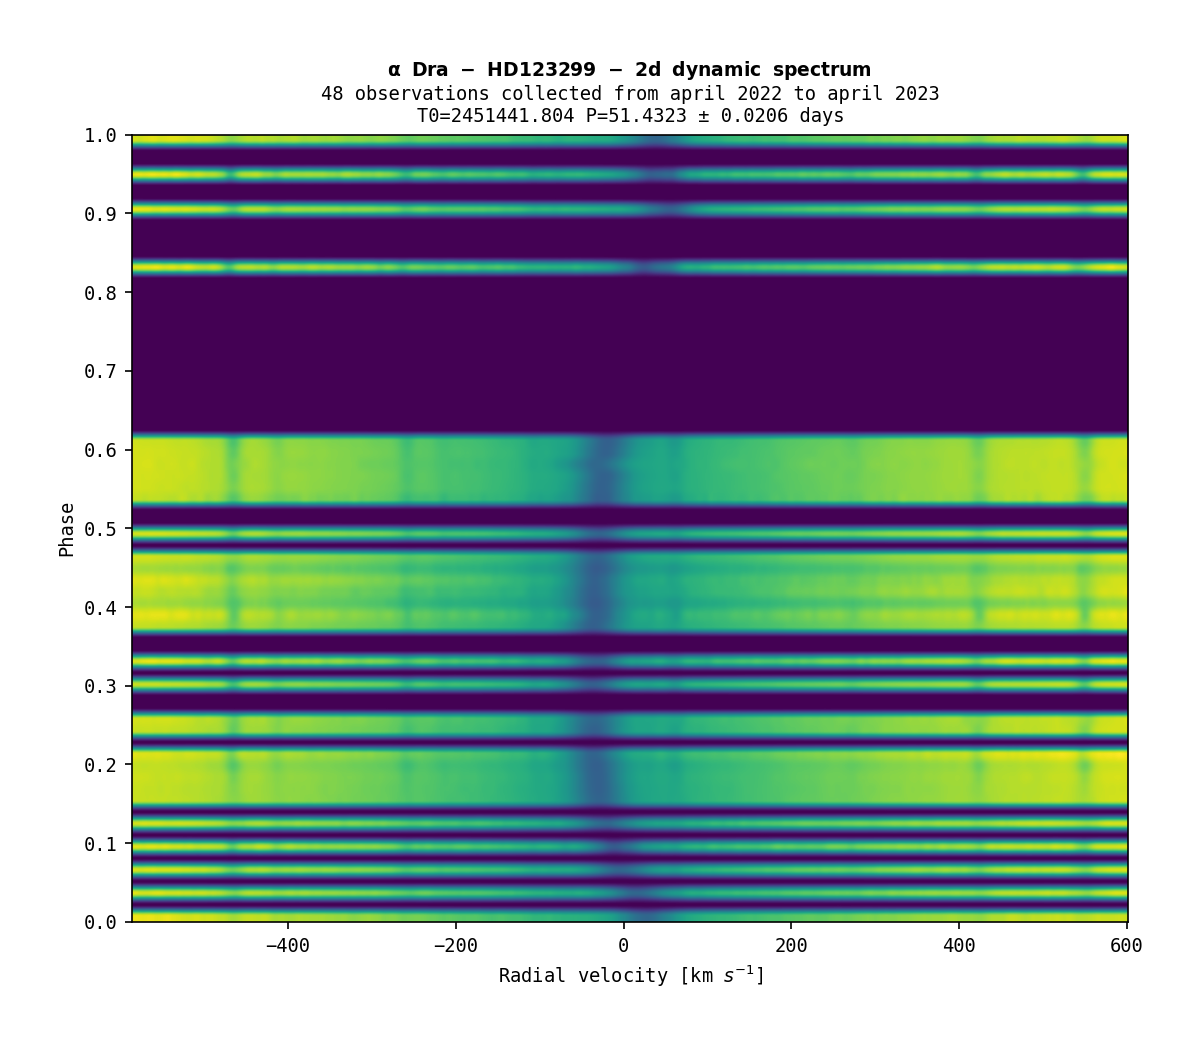
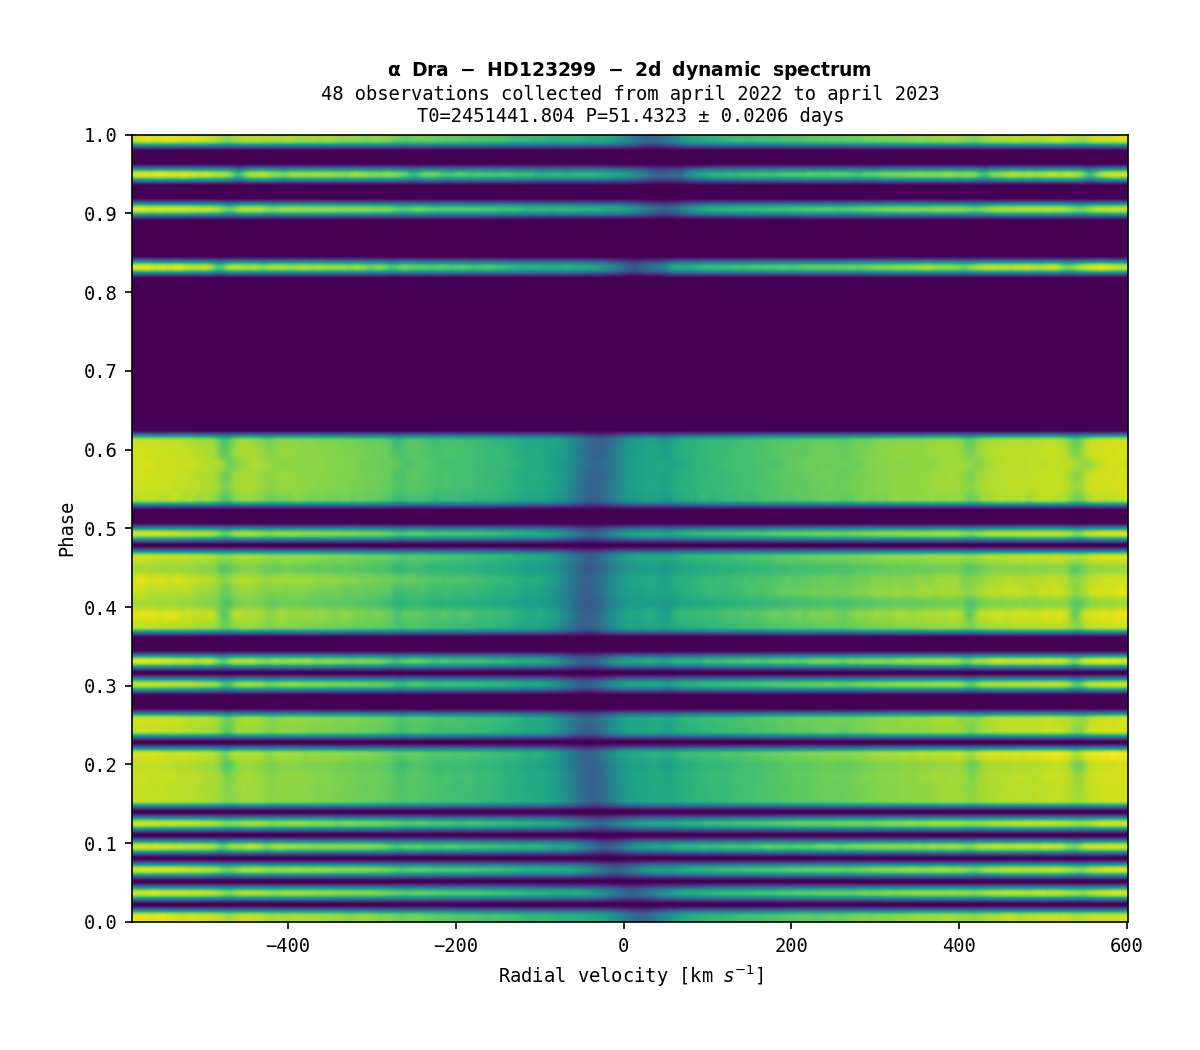
fix error on heliocentric velocity correction

diff --git a/spectroscopicbinarysystem/__init__.py b/spectroscopicbinarysystem/__init__.py
@@ -147,6 +147,9 @@ class SBSpectrum1D(Spectrum1D):
             kind=self._conf["RV_CORR_TYPE"], obstime=t, location=loc)
         self._rv_corr = vcorr.to(u.km / u.s)
 
+    def getRVCorrection(self):
+        return self._rv_corr
+
     def findRV(self):
         """
         Compute the radial velocity from a line position and a radial velocity correction
@@ -730,8 +733,8 @@ class SpectroscopicBinarySystem:
         for s in self._sb_spectra:
             ss = copy.copy(s)
             # apply heliocentric/barycentric correction
-            # ss.shift_spectrum_to(
-            #     radial_velocity=s.getRV()*u.km/u.s)
+            ss.shift_spectrum_to(
+                radial_velocity=s.getRVCorrection())
             fluxc_resample = LinearInterpolatedResampler()
             output_spectrum1D = fluxc_resample(ss, sc)
             phase = s.getPhase()
